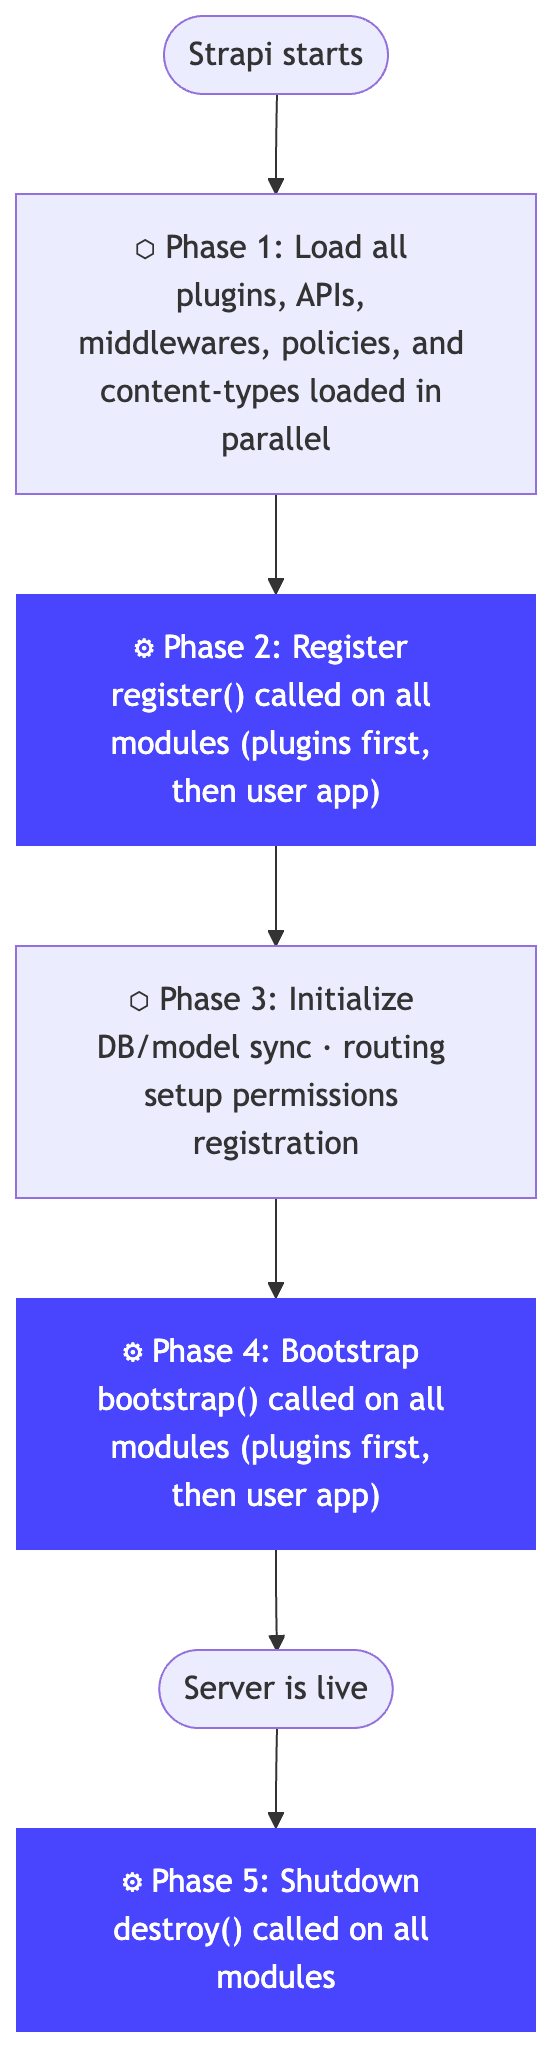
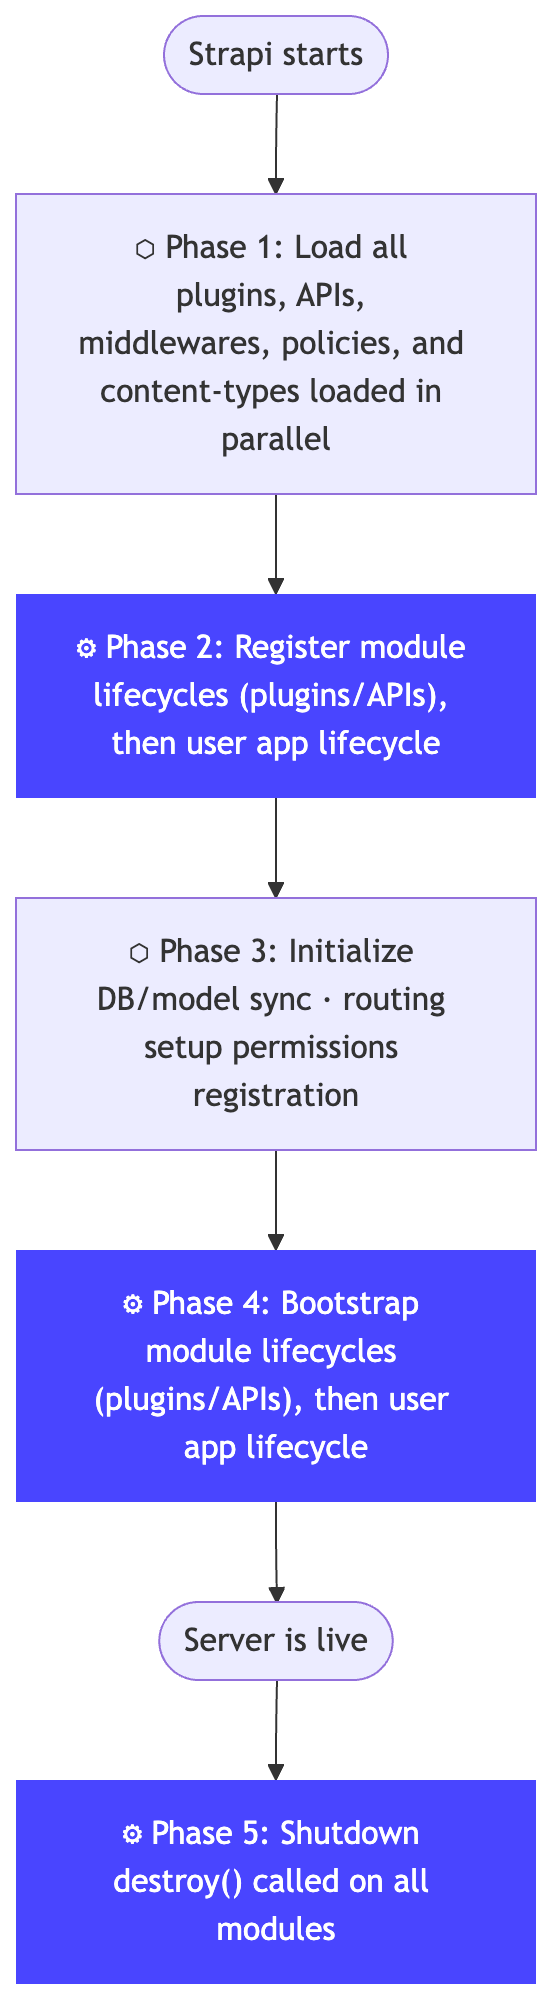
Fix some inconsistencies between docs and codebase for Server API (#2996)
* Fix note in Server API about entry file shape

* Fix server content-types about singular-name matching

* Fix bootstrap description in server lifecycle

* Fix lifecycle diagrams

* Fix config. vs. options in policies-middlewares

* Fix routes with more detailed information about formats and middlewares

* Fix duplicate closing Tldr block

diff --git a/docusaurus/docs/cms/plugins-development/server-routes.md b/docusaurus/docs/cms/plugins-development/server-routes.md
@@ -18,7 +18,7 @@ import Prerequisite from '/docs/snippets/plugins-development-create-plugin-prere
 # Server API: Routes
 
 <Tldr>
-The Server API exports a `routes` value from the server entry file to expose plugin endpoints. Use the array format for simple cases, the named router format to separate admin and Content API routes, or the factory callback format for dynamic route configuration.
+The Server API exports a `routes` value from the server entry file to expose plugin endpoints. Use the array format only for implicit admin routes, the named router format to separate admin and Content API routes, or the factory callback format for dynamic route configuration.
 </Tldr>
 
 Routes expose your plugin's HTTP endpoints and map incoming requests to controller actions. They are exported from the [server entry file](/cms/plugins-development/server-api#entry-file) as a `routes` value.
@@ -28,14 +28,19 @@ Routes expose your plugin's HTTP endpoints and map incoming requests to controll
 ## Route declaration formats
 
 :::tip Which format should I use?
-- **[Array format](#array-format):** Simple plugins with a single route type (all admin or all Content API).
+
+- **[Array format](#array-format):** Simple plugins that only need admin routes with default registration behavior
 - **[Named router format](#named-router-format):** Plugins that expose both admin and Content API routes, or need explicit type control. **Recommended for most cases.**
 - **[Factory callback format](#factory-callback-format):** Advanced cases where route config depends on the `strapi` instance (e.g., reading plugin configuration).
 :::
 
 ### Array format
 
-The array format is the most basic format: it exports an array of route objects directly. Strapi registers these objects as admin routes with the plugin name as prefix:
+The array format is the most basic format: it exports an array of route objects directly. Strapi registers these objects as admin routes by default, with the plugin name as prefix.
+
+:::tip
+To expose Content API routes, use the [named router format](#named-router-format) with `type: 'content-api'`.
+:::
 
 <Tabs groupId="js-ts">
 <TabItem value="js" label="JavaScript">
@@ -271,8 +276,8 @@ When Strapi registers plugin routes, it applies the following defaults automatic
 
 | Property | Default value | Notes |
 | --- | --- | --- |
-| `type` | `'admin'` | Applied when using the array format or when `type` is omitted from a router object |
-| `prefix` | `'/<plugin-name>'` | Applied when `prefix` is omitted from a router object |
+| `type` | `'admin'` | Applied when using the array format, or when `type` is omitted from a router object in the named format |
+| `prefix` | `'/<plugin-name>'` | Applied when using the array format, or when `prefix` is omitted from a router object |
 | `config.auth.scope` | `['plugin::<plugin-name>.<handler>']` | Auto-generated for string handlers only, using `defaultsDeep` so existing values are not overwritten |
 
 The following 2 declarations are equivalent. Strapi applies the defaults from the table above automatically:
@@ -356,25 +361,44 @@ Each route accepts an optional `config` object with the following properties:
 
 ### `policies`
 
-**Type:** `Array<string | { name: string; config: object }>`
+**Type:** `Array<string | PolicyHandler | { name: string; options?: object }>`
 
-Policies to run before the controller action. Each item is either a policy name string or an object with `name` and `config`.
+Policies to run before the controller action. Each item is either a policy name string, an inline function, or an object with required `name` and optional `options`.
 
-The `config` object is passed as-is to the policy function's `config` argument. The shape of this object depends on the policy.
+The `options` object is passed as-is to the policy function's second argument (`config` in policy signatures). The shape of this object depends on the policy.
 
 Plugin policies are referenced as `plugin::my-plugin.policy-name`.
 
 ### `middlewares`
 
-**Type:** `Array<string | MiddlewareHandler | { name?: string; resolve?: string; config?: object }>` 
+**Type:** `Array<string | MiddlewareHandler | { name: string; options?: object }>`
 
-Middlewares to apply to this route. Each item is a middleware name string, an inline function, or an object with `name` (targets a registered middleware), `resolve` (loads a middleware from a path or module), and `config` (passed to the middleware factory).
+Middlewares to apply to this route. Each item is a middleware name string, an inline function, or an object with:
+
+- `name`: a registered middleware name,
+- `options` (optional): middleware options.
+
+:::note Route middlewares vs. global server middlewares
+At route validation time, Strapi validates middleware/policy objects against `{ name: string; options?: object }` (see `services/server/routing.ts`).
+
+The middleware resolver (`services/server/middleware.ts`) still contains runtime support for `{ resolve, config }` objects, but this shape is rejected by route validation before resolution for standard plugin route declarations.
+
+Use `{ name, options }` in route configs for compatibility with validation.
+:::
 
 ### `auth`
 
-**Type:** `false | { scope?: string[]; strategies?: string[] }`
+**Type:** `false | { scope: string[]; strategies?: string[] }`
 
-Set to `false` to make the route public. Pass an object to override the auto-generated scope or specify custom auth strategies.
+Set to `false` to make the route public. Pass an object to define the auth scope and, optionally, custom auth strategies.
+
+At runtime, `scope` must be present when `auth` is an object.
+
+:::note
+For **string handlers** (for example, `handler: 'article.find'`), Strapi auto-injects a default `config.auth.scope` value, so patterns such as `auth: {}` can still work.
+
+For **non-string handlers** (inline functions), do not assume auto-scope injection. Define `config.auth.scope` explicitly when `auth` is an object.
+:::
 
 :::caution
 Setting `auth: false` on an admin route is almost never intentional: it exposes the endpoint to unauthenticated requests.
@@ -395,3 +419,4 @@ For configuration examples including policies, public routes, dynamic URL parame
 - **Do not disable auth on admin routes.** Admin routes default to requiring admin authentication. Disabling auth on an admin route exposes it to unauthenticated requests, which is almost never intentional.
 
 - **Group related routes in dedicated files.** As the plugin grows, a single route index file becomes hard to navigate. Split by resource (e.g., `routes/article.js`, `routes/comment.js`) and re-export from `routes/index.js`.
+

diff --git a/docusaurus/docs/cms/plugins-development/server-content-types.md b/docusaurus/docs/cms/plugins-development/server-content-types.md
@@ -18,7 +18,7 @@ import Prerequisite from '/docs/snippets/plugins-development-create-plugin-prere
 # Server API: Content-types
 
 <Tldr>
-The Server API exports a `contentTypes` object from the server entry file to declare plugin content-types. The UID follows the `plugin::<plugin-name>.<singular-name>` convention and is used to query, sanitize, and reference the content-type at runtime.
+The Server API exports a `contentTypes` object from the server entry file to declare plugin content-types. The recommended naming convention is to use the same value for the export key and `info.singularName` so the runtime UID remains predictable when querying or sanitizing data.
 </Tldr>
 
 A plugin can declare its own content-types by exporting a `contentTypes` object from the [server entry file](/cms/plugins-development/server-api#entry-file). Strapi registers these content-types under the plugin namespace at startup and makes them available through the Document Service API and the content-type registry.
@@ -27,7 +27,7 @@ A plugin can declare its own content-types by exporting a `contentTypes` object 
 
 ## Declaration
 
-The `contentTypes` export is an object where each key is the `singularName` of the content-type, matching the `info.singularName` field in its schema. The value is an object with a `schema` property pointing to the schema definition.
+The `contentTypes` export is an object where each key registers a content-type under the plugin namespace. To avoid confusion, the key should match the `info.singularName` field in the schema. The value is an object with a `schema` property pointing to the schema definition.
 
 <Tabs groupId="js-ts">
 <TabItem value="js" label="JavaScript">
@@ -39,7 +39,7 @@ const article = require('./article');
 
 module.exports = {
   // highlight-next-line
-  article: { schema: article }, // key must match info.singularName in the schema
+  article: { schema: article }, // recommended: keep key aligned with info.singularName
 };
 ```
 
@@ -76,7 +76,7 @@ import article from './article';
 
 export default {
   // highlight-next-line
-  article: { schema: article }, // key must match info.singularName in the schema
+  article: { schema: article }, // recommended: keep key aligned with info.singularName
 };
 ```
 
@@ -110,13 +110,25 @@ export default {
 
 ## UIDs and naming conventions
 
-Once registered, a plugin content-type is identified by a stable UID that follows this format:
+When a plugin content-type is registered, Strapi builds its runtime UID from the plugin namespace and the key used in the `contentTypes` export:
+
+```
+plugin::<plugin-name>.<content-types-key>
+```
+
+The recommended convention is to set `content-types-key === info.singularName`. Following this convention keeps the schema naming and runtime UID aligned and easier to read.
+
+When the key matches `singularName` (recommended), the resulting UID follows this format:
 
 ```
 plugin::<plugin-name>.<singular-name>
 ```
 
-For example, a plugin named `my-plugin` with a content-type whose `singularName` is `article` has the UID `plugin::my-plugin.article`.
+For example, a plugin named `my-plugin` with a content-type whose `singularName` is `article` and export key `article` has the UID `plugin::my-plugin.article`.
+
+:::warning
+If the `contentTypes` key and `info.singularName` diverge, getters and queries use the UID built from the registered key (not from `singularName`). This can introduce naming inconsistencies across your plugin code.
+:::
 
 This UID is used consistently across all APIs:
 
@@ -213,10 +225,10 @@ const sanitizedOutput = await strapi.contentAPI.sanitize.output(
 
 ## Best practices
 
-- **Match the export key to `info.singularName` exactly.** If the key and `singularName` don't match, Strapi may fail to register the content-type or generate an incorrect UID.
+- **Match the export key to `info.singularName` exactly.** This keeps naming readable and consistent. At runtime, Strapi derives the plugin content-type UID from the key of the `contentTypes` map under the plugin namespace. A mismatch may create confusing UIDs and maintenance issues, even if registration still succeeds.
 
 - **Use `collectionName` to avoid table name conflicts.** The `collectionName` field sets the database table name. Prefix it with the plugin name (e.g., `my_plugin_articles`) to avoid collisions with application content-types or other plugins.
 
 - **Keep content-type schemas in their own files.** Define each schema in a dedicated `schema.json` file inside a subfolder named after the `singularName` (e.g., `content-types/article/schema.json`). This matches the structure generated by the Plugin SDK and keeps the index file readable.
 
-- **Enable `draftAndPublish` only when needed.** Draft and Publish adds a publication workflow to the content-type. Enable it only if the plugin's use case requires it — it adds complexity to queries and content management.
+- **Enable `draftAndPublish` only when needed.** Draft and Publish adds a publication workflow to the content-type. Enable it only if the plugin's use case requires it, as it adds complexity to queries and content management.

diff --git a/docusaurus/docs/cms/plugins-development/server-policies-middlewares.md b/docusaurus/docs/cms/plugins-development/server-policies-middlewares.md
@@ -51,7 +51,7 @@ A policy is a function that runs before the controller action for a given route.
 Policies are exported as plain functions (not factory functions). Each policy receives the following 3 arguments:
 
 - `policyContext` is a wrapper around the Koa context object. Use it to access `policyContext.state.user`, `policyContext.request`, etc.
-- `config` contains the per-route configuration passed when attaching the policy (e.g., `{ name: 'plugin::my-plugin.hasRole', config: { role: 'editor' } }`, where `config` is the per-policy options object).
+- `config` contains the per-route configuration passed when attaching the policy (e.g., `{ name: 'plugin::my-plugin.hasRole', options: { role: 'editor' } }`, where `config` is the per-policy options object).
 - `{ strapi }` gives access to the Strapi instance.
 
 :::note
@@ -75,7 +75,7 @@ module.exports = {
 'use strict';
 
 // Allow the request only if the user has the role specified in the route config
-// Usage in route: { name: 'plugin::my-plugin.hasRole', config: { role: 'editor' } }
+// Usage in route: { name: 'plugin::my-plugin.hasRole', options: { role: 'editor' } }
 module.exports = (policyContext, config, { strapi }) => {
   const { user } = policyContext.state;
   const targetRole = config.role;
@@ -115,7 +115,7 @@ import type { Core } from '@strapi/strapi';
 type UserRole = { code?: string; name?: string };
 
 // Allow the request only if the user has the role specified in the route config
-// Usage in route: { name: 'plugin::my-plugin.hasRole', config: { role: 'editor' } }
+// Usage in route: { name: 'plugin::my-plugin.hasRole', options: { role: 'editor' } }
 export default (
   policyContext: Core.PolicyContext,
   config: { role?: string },
@@ -169,7 +169,7 @@ module.exports = [
     handler: 'article.delete',
     config: {
       // highlight-next-line
-      policies: [{ name: 'plugin::my-plugin.hasRole', config: { role: 'editor' } }], // with per-route config
+      policies: [{ name: 'plugin::my-plugin.hasRole', options: { role: 'editor' } }], // with per-route config
     },
   },
   {
@@ -206,7 +206,7 @@ export default [
     handler: 'article.delete',
     config: {
       // highlight-next-line
-      policies: [{ name: 'plugin::my-plugin.hasRole', config: { role: 'editor' } }], // with per-route config
+      policies: [{ name: 'plugin::my-plugin.hasRole', options: { role: 'editor' } }], // with per-route config
     },
   },
   {
@@ -416,6 +416,14 @@ export default ({ strapi }: { strapi: Core.Strapi }) => {
 Server-level middlewares affect all routes across all plugins and the application itself, not just your plugin's routes. A server-level middleware that throws or never calls `next()` will break every request on the server, not just your plugin's endpoints. Use route-level middlewares when the concern is specific to your plugin's endpoints.
 :::
 
+:::note Version/runtime behavior
+For route declarations, validation accepts object entries shaped as `{ name, options }` for both `policies` and `middlewares` (see `services/server/routing.ts`).
+
+At runtime, some internals still reference `{ resolve, config }` support in the middleware resolver (`services/server/middleware.ts`), but that shape is not accepted by route validation in standard route files.
+
+To avoid validation errors, use `{ name, options }` in route configurations.
+:::
+
 :::strapi Backend customization
 For the full middleware reference, see [Middlewares](/cms/backend-customization/middlewares).
 :::
@@ -430,4 +438,4 @@ For the full middleware reference, see [Middlewares](/cms/backend-customization/
 
 - **Always call `await next()` in middlewares.** Forgetting `next()` means the request chain is interrupted and the controller never executes, resulting in a hanging request with no response.
 
-- **Use `config` for reusable policies.** When the same policy logic needs different parameters per route (e.g., a required role name), receive those parameters via the `config` argument and pass them from the route's `{ name, config }` object. This avoids duplicating similar policies.
+- **Use `options` for reusable policies.** When the same policy logic needs different parameters per route (e.g., a required role name), pass them from the route's `{ name, options }` object. These values are received in the policy function's `config` argument. This avoids duplicating similar policies.

diff --git a/docusaurus/docs/cms/plugins-development/server-api.md b/docusaurus/docs/cms/plugins-development/server-api.md
@@ -115,7 +115,7 @@ export default () => ({
 All server code can technically live in the single entry file, but splitting each concern into its own folder, as generated by the Plugin SDK, is strongly recommended. The examples in this documentation follow that structure.
 
 :::note Notes
-* The entry file accepts either an object literal or a function that receives `{ strapi }` and returns the same object shape. The function form is useful when you need a reference to the Strapi instance at declaration time.
+* The entry file accepts either an object literal or a function that returns the same object shape. When the function form is used, Strapi calls it with `{ env }` (not `{ strapi }`) while loading the plugin module.
 * `config` is a configuration object, not an executable lifecycle hook. Unlike `register()`, `bootstrap()`, or `destroy()`, it is not called as a function during the plugin lifecycle. It is loaded at startup and used to set defaults and validate user configuration. See [server lifecycle](/cms/plugins-development/server-lifecycle) for more information.
 :::
 

diff --git a/docusaurus/docs/cms/plugins-development/server-lifecycle.md b/docusaurus/docs/cms/plugins-development/server-lifecycle.md
@@ -99,7 +99,7 @@ export default ({ strapi }: { strapi: Core.Strapi }) => {
 
 **Type:** `Function`
 
-`bootstrap()` runs after plugins registration, database initialization, route initialization, and Content API action registration.
+`bootstrap()` runs after module lifecycle registration (plugins/APIs), database initialization, route initialization, and Content API action registration.
 
 Use `bootstrap()` to:
 - Seed the database with initial data
